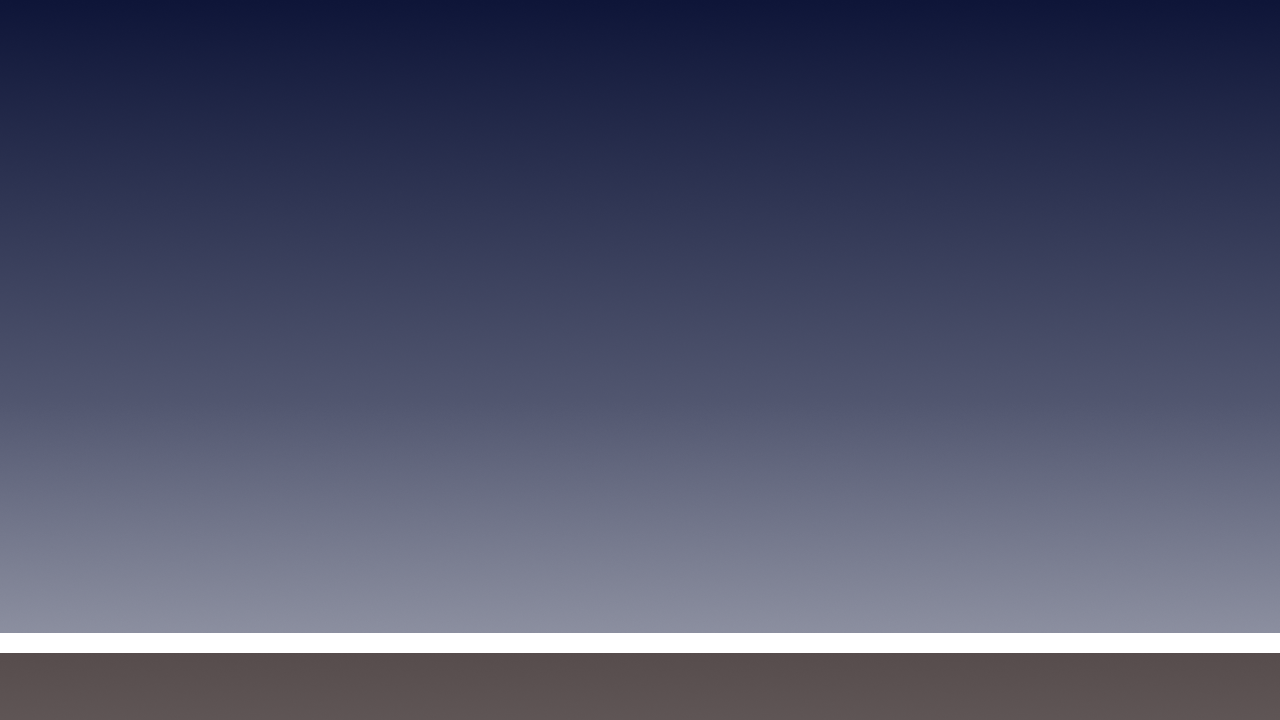
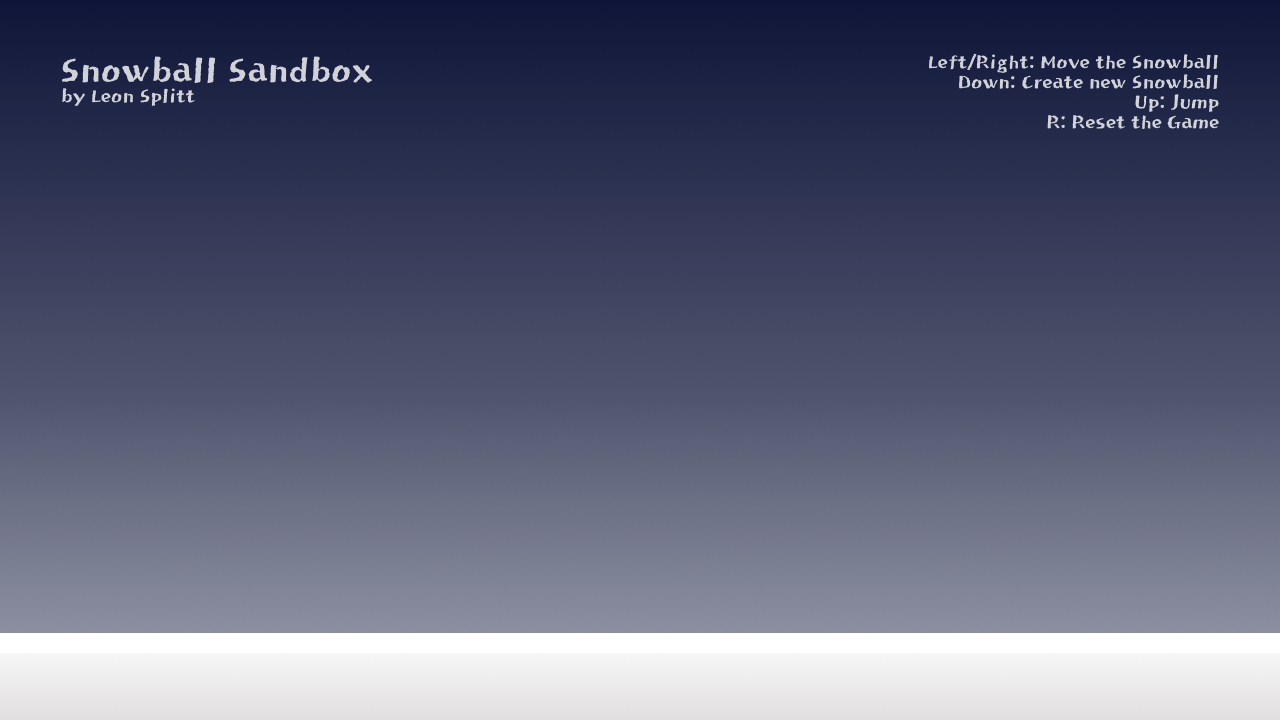
fixed aspect ratio, updated background & sounds

Changed region(s): [[0.0, 0.8861, 1.0, 1.0], [0.7188, 0.0611, 0.9688, 0.1833], [0.0312, 0.0611, 0.3125, 0.1528]]

diff --git a/Snowballgame.py b/Snowballgame.py
@@ -6,7 +6,7 @@ import sys
 import copy
 
 # constant variables
-SCREEN_SIZE = (1080, 720)
+SCREEN_SIZE = (1280, 720)
 FLOOR_HEIGHT = 635
 SPAWN_POS_X = 400
 SPAWN_POS_Y = 10
@@ -31,7 +31,7 @@ snowball_img = pygame.image.load("assets/logo.png")
 # load sounds
 pygame.mixer.music.load("assets/night.mp3")
 pygame.mixer.music.play(-1, 0.0, 0)
-jump_fx = pygame.mixer.Sound("assets/jump2.mp3")
+jump_fx = pygame.mixer.Sound("assets/jump1.mp3")
 jump_fx.set_volume(0.1)
 
 

diff --git a/readme.md b/readme.md
@@ -1,3 +1,3 @@
 ![Game Screenshot](images/screen1.png)
-![Game Screenshot](images/screen3.png)
 ![Game Screenshot](images/screen2.png)
+![Game Screenshot](images/screen3.png)
